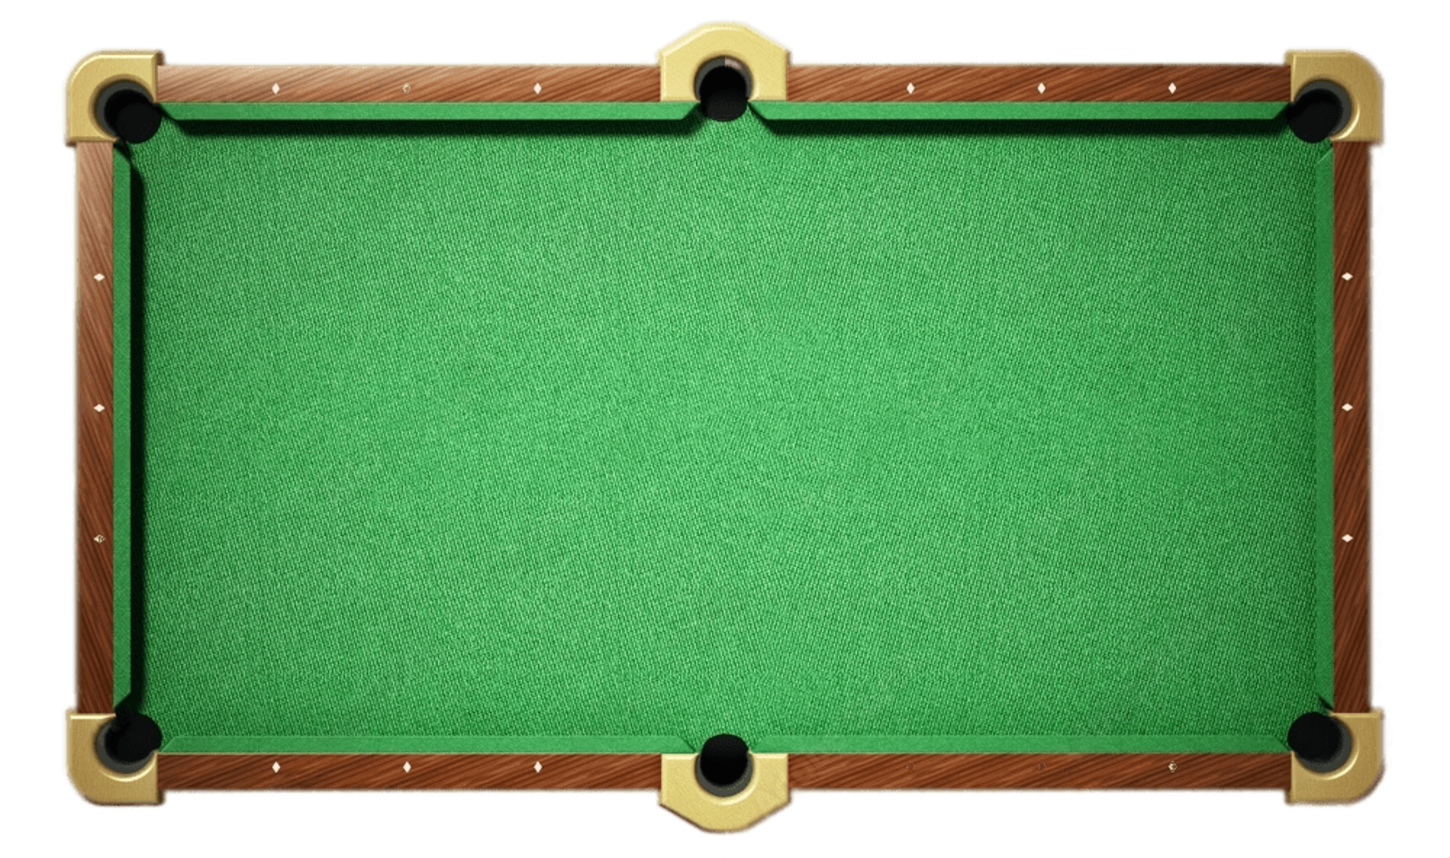
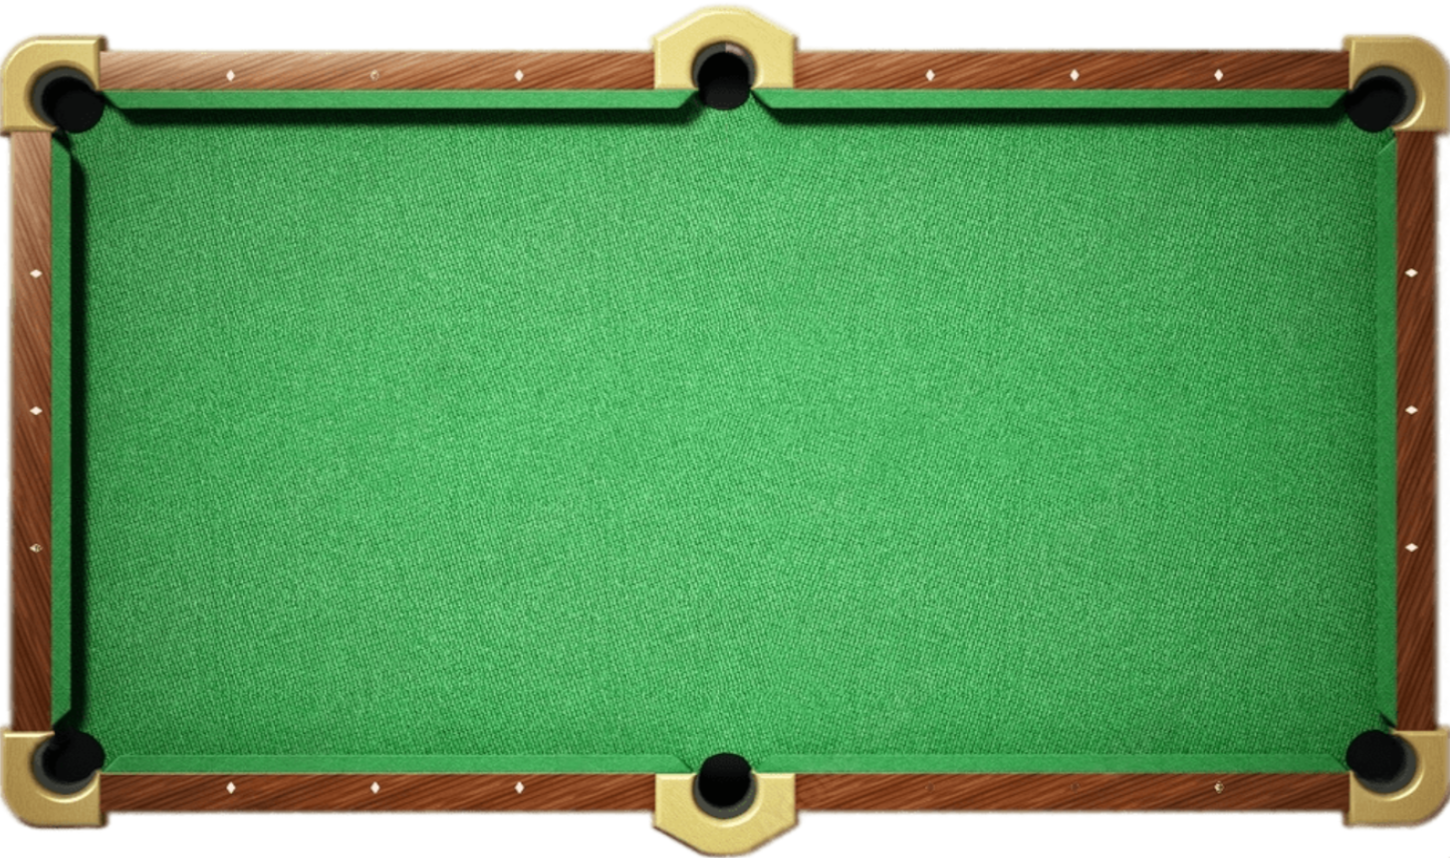
added assets/sprite loader, stick and game loop

diff --git a/Canvas.js b/Canvas.js
@@ -2,35 +2,28 @@ class Canvas2D {
     constructor(){
         this._canvas = document.getElementById('screen');
         this._context = this._canvas.getContext('2d');
-        this.initializeCanvas();
     }
 
-    initializeCanvas(){
-        this._canvas.width = window.innerWidth;
-        this._canvas.height = window.innerHeight;
-        this._context.clearRect(0,0,this._canvas.width,this._canvas.height)
+    initializeCanvas(width,height){
+        this._canvas.width = width;
+        this._canvas.height = height;
+        this._context.clearRect(0,0,this._canvas.width,this._canvas.height);
     }
 
     drawImage(image,position){
-        this._context.drawImage(image,position.x,position.y)
+        this._context.drawImage(image,position.x,position.y);
     }
 
     getWidth(){
-        return this._canvas.width
+        return this._canvas.width;
     }
 
     getHeight(){
-        return this._canvas.height
+        return this._canvas.height;
     }
 
-}
+    clear(){
+        this._context.clearRect(0,0,this._canvas.width,this._canvas.height);
+    }
 
-let image = new Image();
-image.src = "./images/table.png";
-image.onload = function(){
-    const canvas = new Canvas2D();
-    const width = canvas.getWidth()
-    const height = canvas.getHeight()
-    console.log(width,height);
-    canvas.drawImage(image, {x:(width/2)-(image.width/2),y:(height/2)-(image.height)/2});
 }

diff --git a/Assets.js b/Assets.js
@@ -1,0 +1,29 @@
+let sprites = {};
+let assetsStillLoading = 0;
+
+function assetsLoadingLoop(callback){
+    if (assetsStillLoading){
+        requestAnimationFrame(assetsLoadingLoop.bind(this,callback));
+    }
+    else{
+        callback();
+    }
+}
+
+function loadSprite(fileName){
+    assetsStillLoading++;
+
+    let spriteImage = new Image();
+    spriteImage.src = './images/' + fileName;
+
+    spriteImage.onload = function(){
+        assetsStillLoading--;
+    }
+    return spriteImage;
+}
+
+function loadAssets(callback){
+    sprites.background = loadSprite("table.png");
+    sprites.stick = loadSprite("stick.png");
+    assetsLoadingLoop(callback);
+}

diff --git a/index.html b/index.html
@@ -4,7 +4,14 @@
         <link rel="stylesheet" href="style.css">
     </head>
     <body>
-        <canvas id="screen" style='position:absolute; left:0px; top:0px;' width="640" height="480"></canvas>
+        <canvas id="screen" width="640" height="480"></canvas>
         <script src="./Canvas.js"></script>
+        <script src="./Assets.js"></script>
+        <script src="./Stick.js"></script>
+        <script src="./GameWorld.js"></script>
+        <script src="./Game.js"></script>
+        <script>
+            loadAssets(() => { poolGame.start()}) // pour le self
+        </script>
     </body>
 </html>

diff --git a/Game.js b/Game.js
@@ -1,0 +1,24 @@
+class Game {
+    constructor(canvas){
+        this.gameWorld = new GameWorld(canvas);
+        this.canvas = canvas;
+    }
+
+    mainLoop(){
+        this.canvas.clear();
+        this.gameWorld.update();
+        this.gameWorld.draw();
+        
+        requestAnimationFrame(() => { this.mainLoop() })
+    }
+ 
+    start(){
+        this.mainLoop();
+    }
+
+}
+
+const canvas = new Canvas2D();
+canvas.initializeCanvas(1450,858);
+
+let poolGame = new Game(canvas);

diff --git a/GameWorld.js b/GameWorld.js
@@ -1,0 +1,15 @@
+class GameWorld {
+    constructor(canvas){
+        this.canvas = canvas
+        this.stick = new Stick(canvas);
+    }
+
+    update(){
+        this.stick.update();
+    }
+
+    draw(){
+        this.canvas.drawImage(sprites.background, {x:0, y:0});
+        this.stick.drawImage();
+    }
+}

diff --git a/Stick.js b/Stick.js
@@ -1,0 +1,14 @@
+class Stick {
+    constructor(canvas){
+        this.position = {x: 0,y: 400};
+        this.canvas = canvas;
+    }
+
+    update(){
+        this.position.x++;
+    }
+
+    drawImage(){
+        this.canvas.drawImage(sprites.stick, this.position);
+    }
+}

diff --git a/style.css b/style.css
@@ -8,3 +8,8 @@ html, body {
 body {
     background-color: rgb(52, 57, 46);
 }
+
+#screen {
+    display: block;
+    margin: 0 auto;
+}
